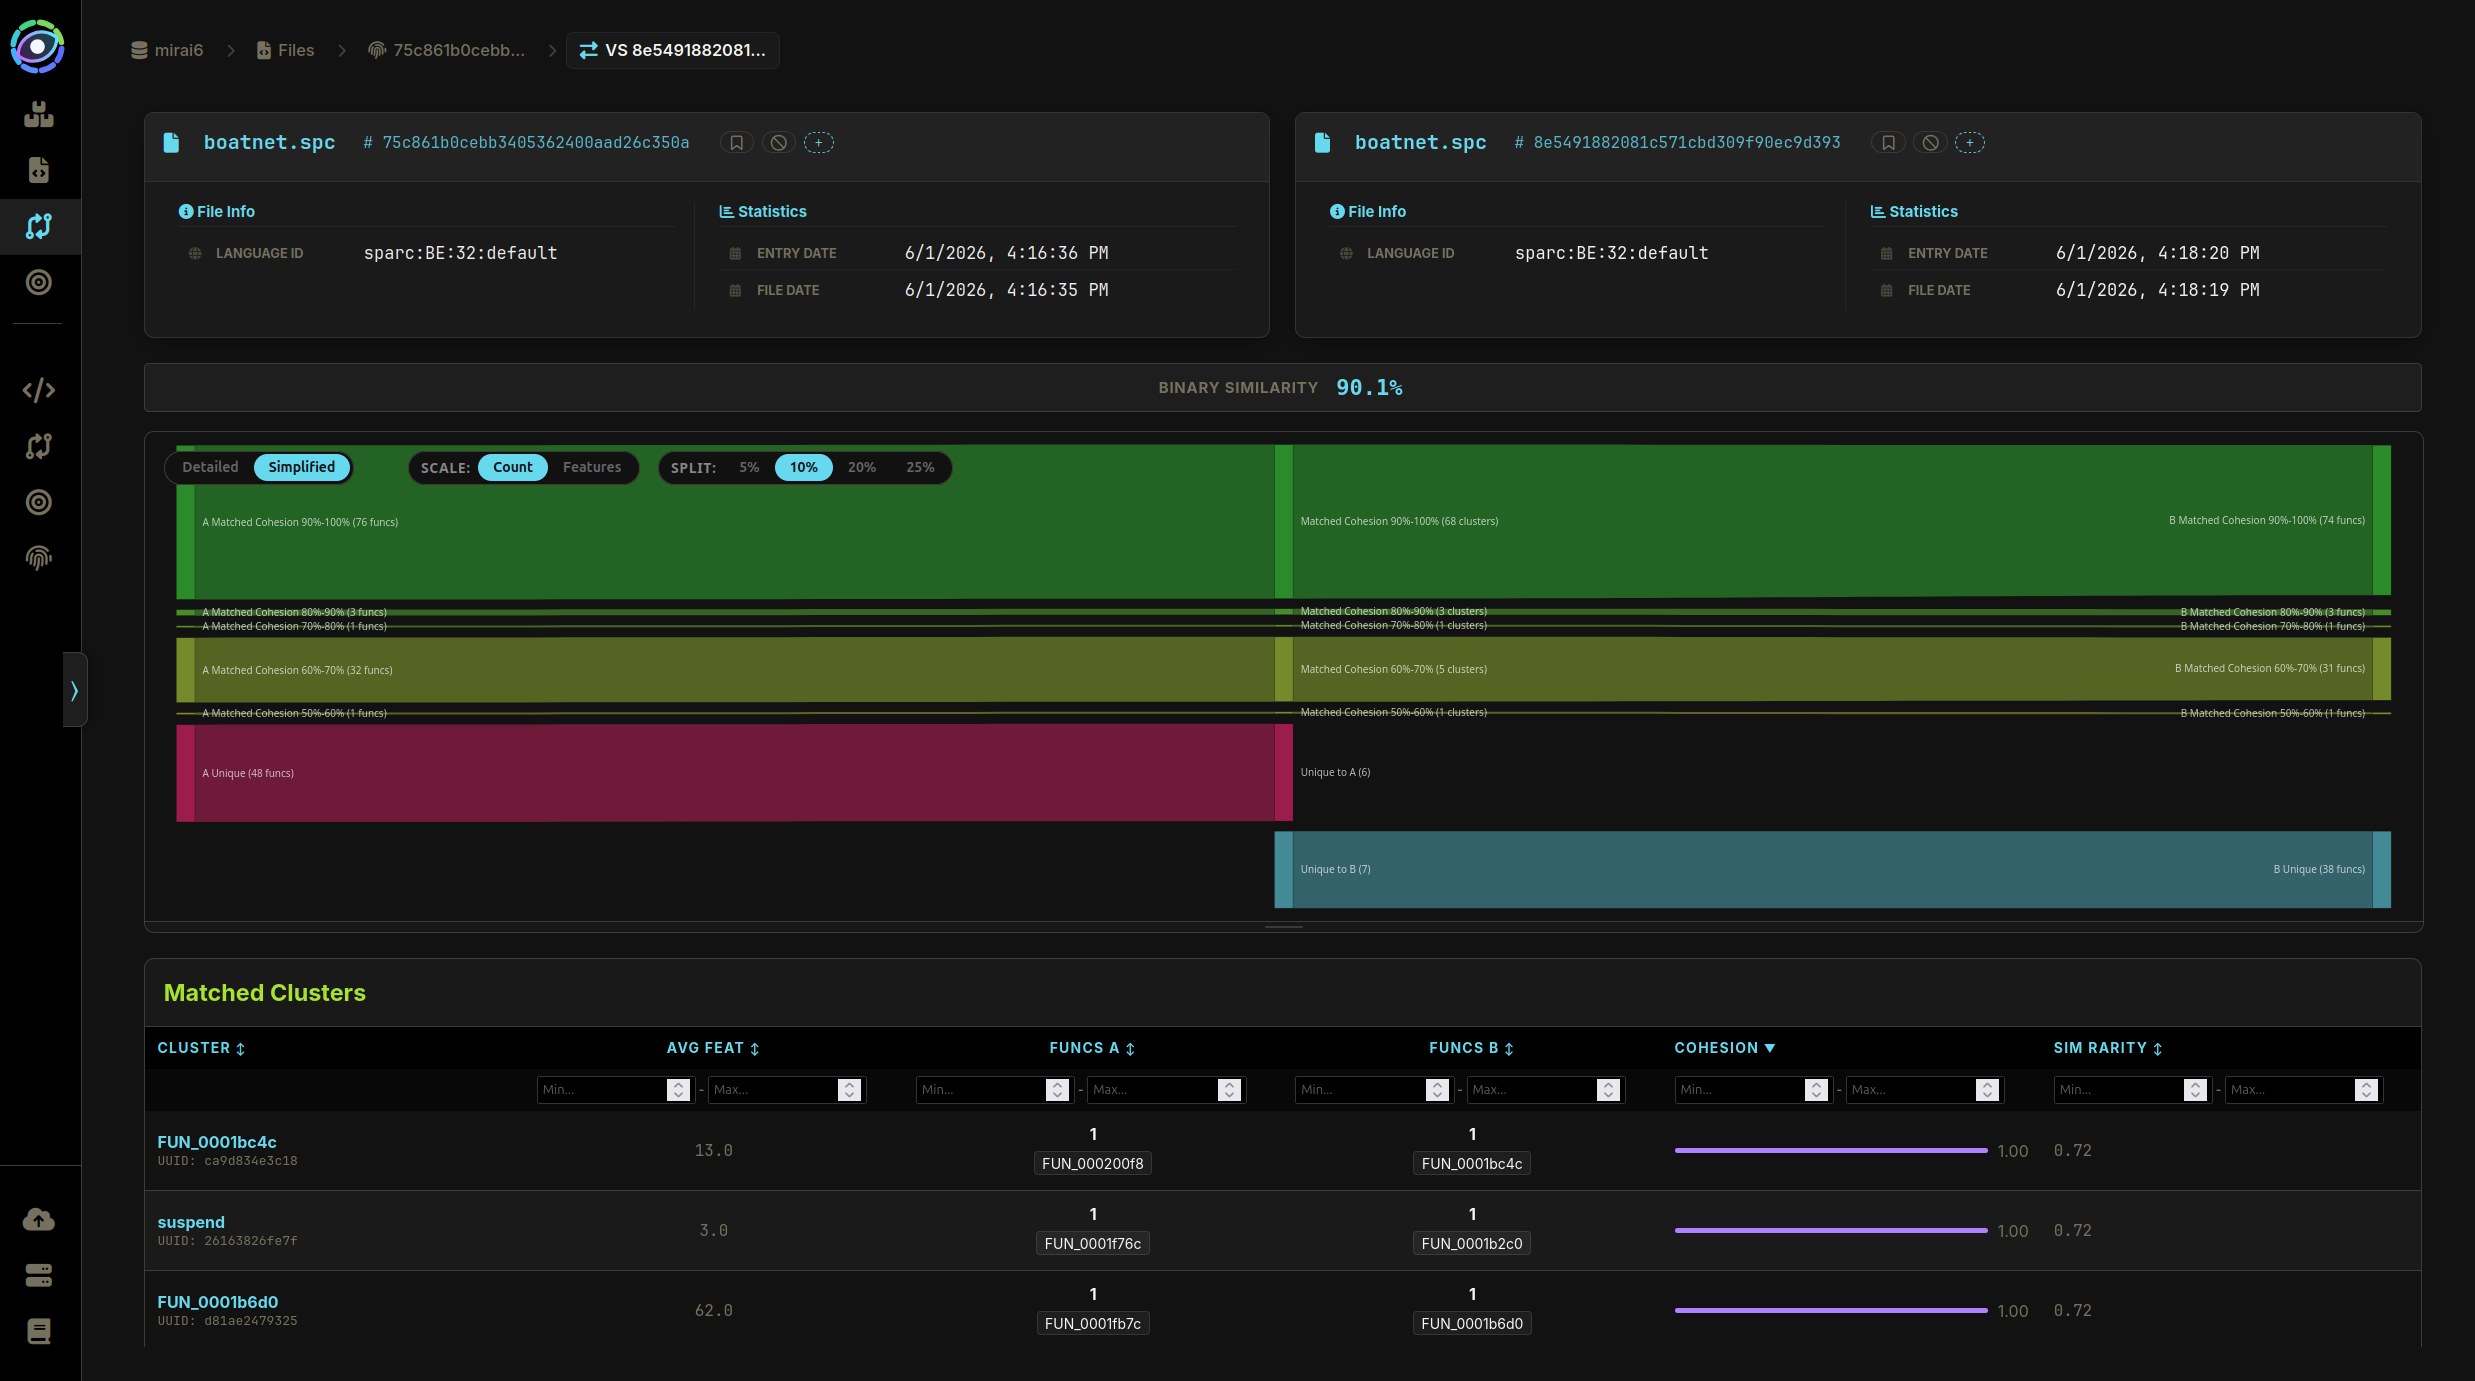
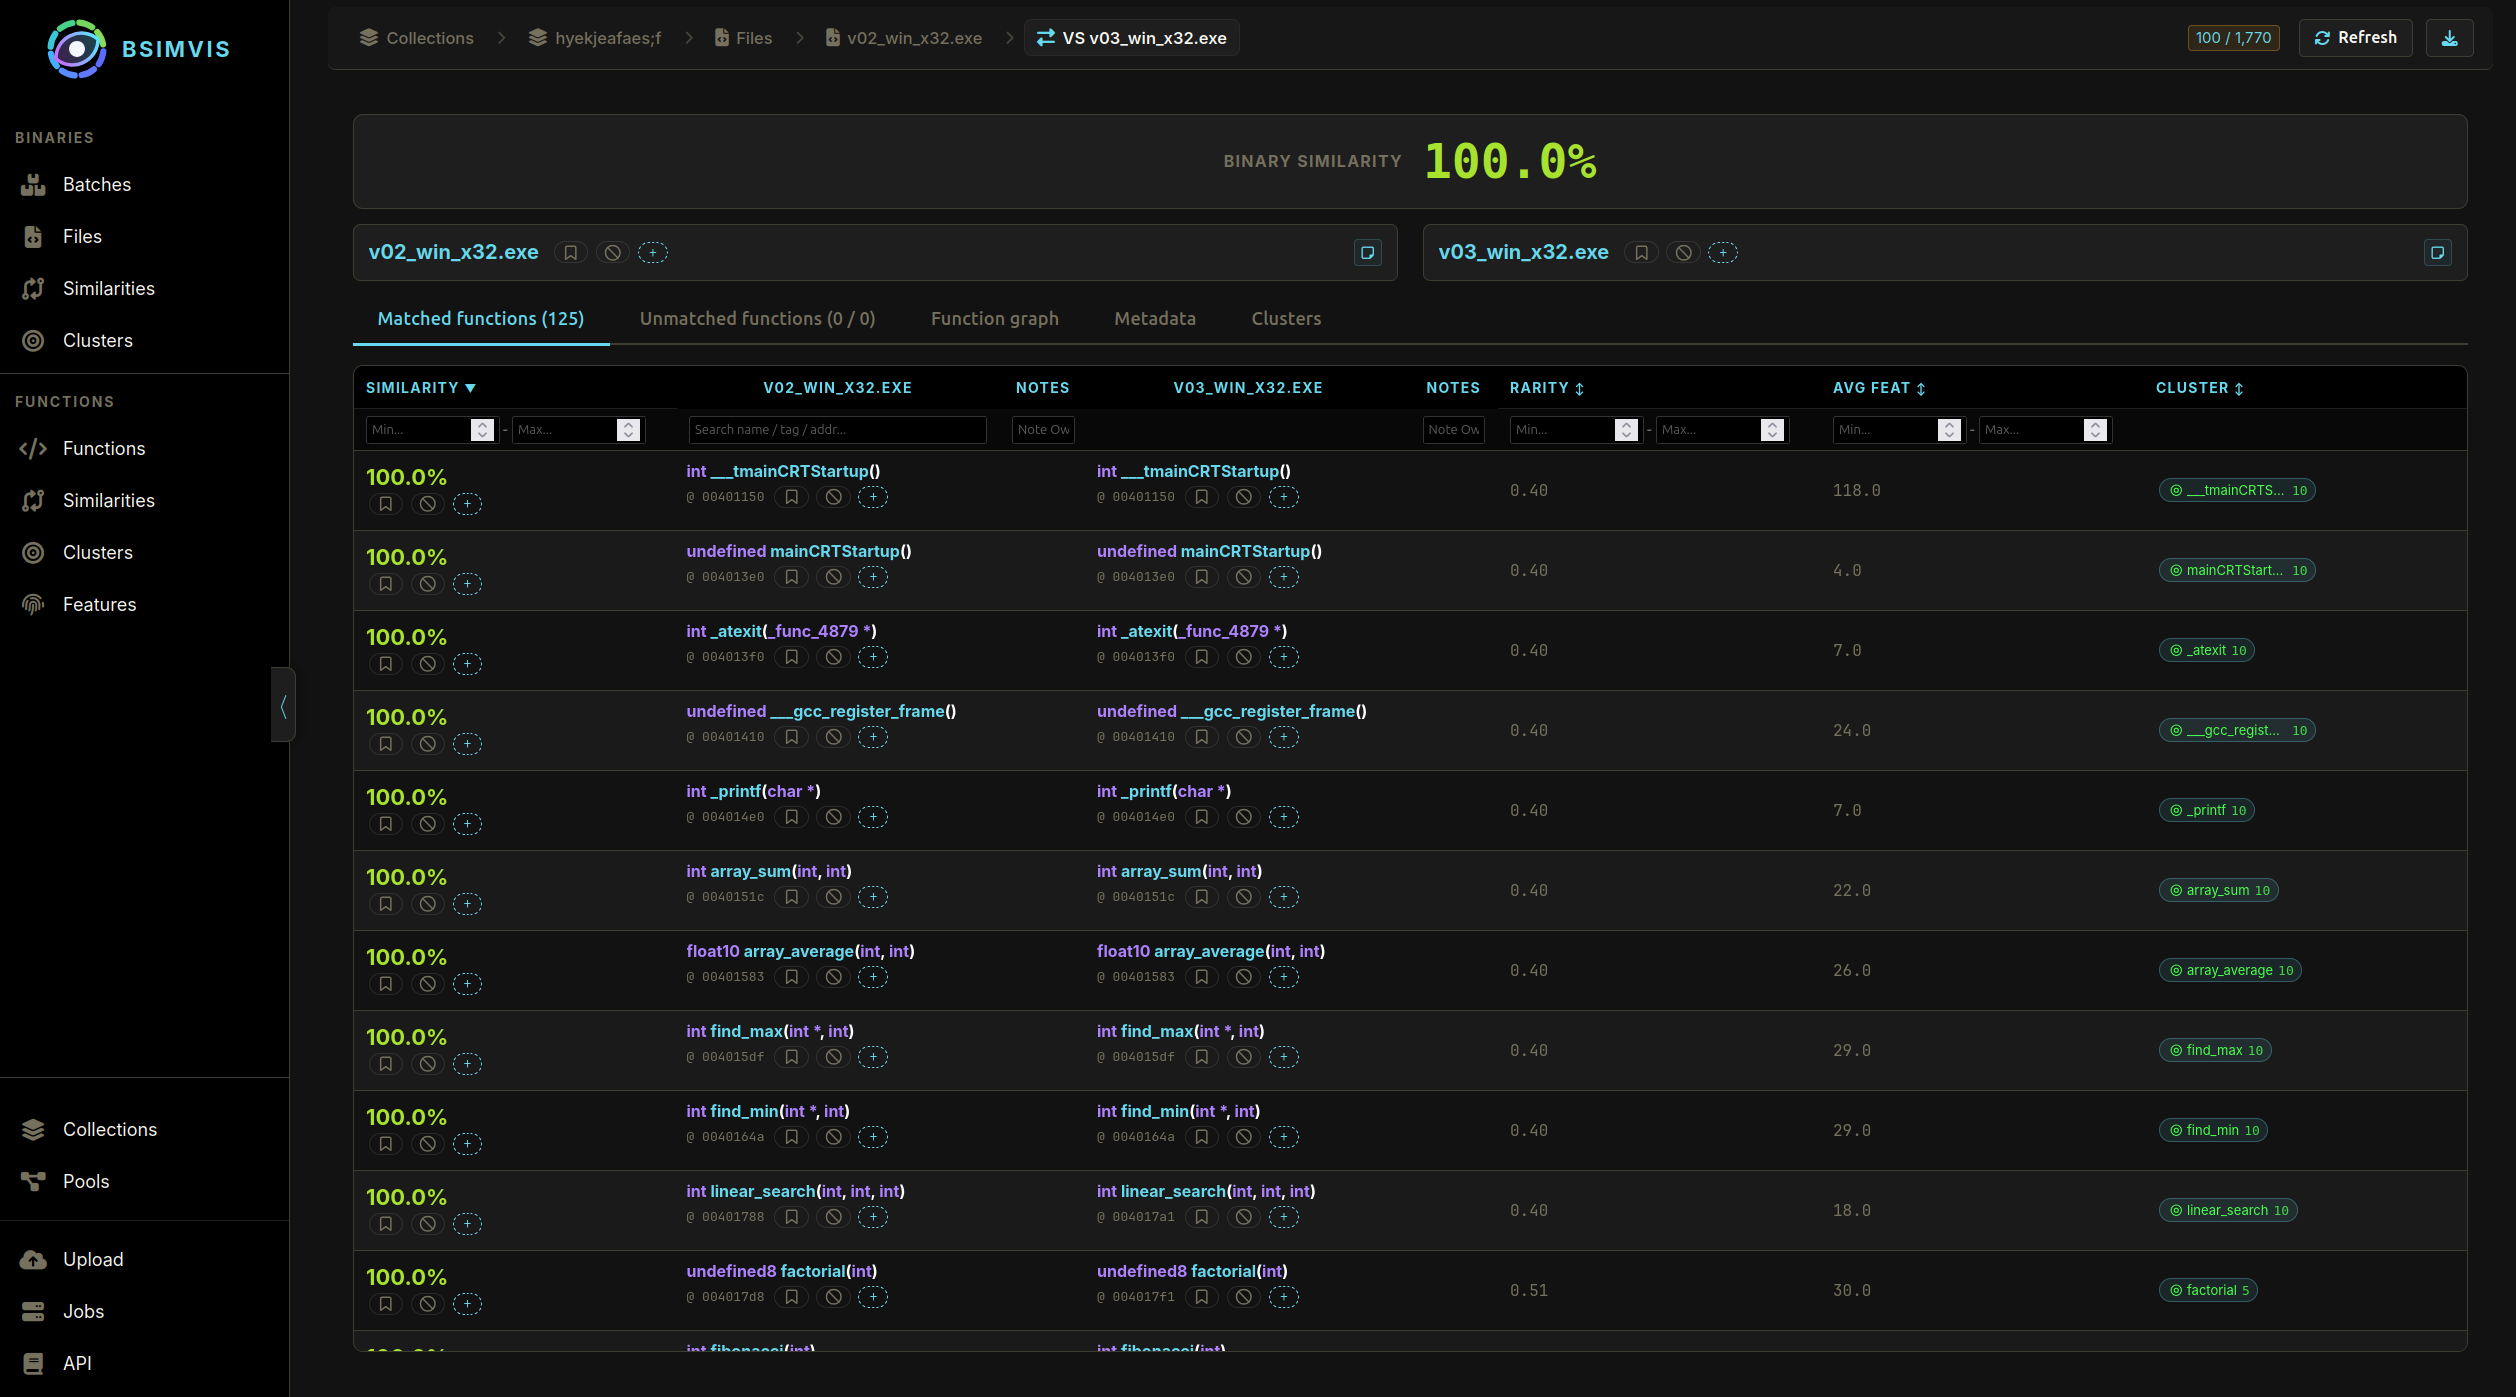
docs: update 0.4.0 release notes and graphs

diff --git a/doc/whats_new.md b/doc/whats_new.md
@@ -1,47 +1,38 @@
-# Release 0.4.0 - Pools
+BSimVis is a tool to analyze similarities across a collection of binaries, based on [Ghidra](https://github.com/nationalsecurityagency/ghidra) analyzers and the BSim (Behavioral Similarity) plugin. It provides an API and Web interface to upload large quantities of decompiled binaries and BSim feature vectors to a Kvrocks database for similarity analysis, function diffing, and binary family clustering.
+
+# New features
+
+This new version focuses on cross-collection analysis via pools, significant performance and concurrency scaling improvements for similarity builds, stability enhancements, and robust testing tools.
+
+# Screenshots
+
+![binary similarity diffing view](/img/binary_diff.png)
+*Interactive side-by-side binary diffing and function matching view.*
+
 
 ## Pools
-
-A pool correlates several collections at once, with two modes:
-
-* **Full cross-correlation** — matches what happens in collections.
-* **Cross-collection only** — set `only_cross_collection` in the pool config to
-  keep just the pairs that span two different collections. Use this to identify
-  known functions from a reference collection in another one, without paying for
-  the intra-collection comparisons you already have.
-
-Pool similarity, clustering, binary similarity and binary clustering all run as
-one job pipeline, and pool results carry their own namespace so tags, notes and
-clusters stay attached to the right level.
+* **Full cross-correlation** — matches what happens in collections, saving similarities across all collections and within them.
+* **Cross-collection only** — set `only_cross_collection` in the pool config to keep just the pairs that span two different collections. Use this to identify known functions from a reference collection in another one, without paying for the intra-collection comparisons you already have.
 
 ## Performance
 
-* Significant throughput improvements for concurrent similarity builds (`BUILD_SIM`). This was optimized by addressing two root causes: an unbounded metadata cache that starved the GC, and a per-candidate `ZSCORE` loop in Lua. Candidate discovery is now pure Python, so it no longer serializes on the kvrocks global `EVAL` lock.
-* **Concurrency scales now.** Multiple workers speed up the build rather than slowing it down, allowing builds to scale efficiently with the number of workers.
-* Diff tables filter, sort and paginate server-side instead of shipping the
-  whole table to the browser, plus a compact Sankey projection (`view=sankey`)
-  for large diffs.
-* File and function search order through the tag index; job statistics are
-  fetched in a single pipeline instead of one round trip per job.
-* Index jobs run as continuations so batches interleave rather than blocking
-  each other.
+![BUILD_SIM Optimization Performance](/img/benchmark/master_build_sim_perf.png)
+*Concurrent build throughput improvements across optimization stages (left) and build timeline comparing the baseline against the optimized run (right).*
+
+* **Faster Similarity Builds** — improved concurrent throughput by optimizing candidate discovery to avoid database serialization.
+* **Concurrency scaling** — multiple workers speed up builds rather than slowing them down, allowing builds to scale efficiently.
+* **Binary Similarity** — server-side pagination, sorting, and filtering for diff tables, along with a Sankey visualization mode.
+* **Search** — faster tag-indexed search sorting.
 
 ## Stability
-
-* Similarity scores are stable for a given set of parameters and no longer
-  drift with collection size.
-* Small functions fall back to Ghidra Function ID hash matching, where BSim
-  produces false positives.
+* Similarity scores are stable for a given set of parameters and no longer drift with collection size.
+* Small functions fall back to Ghidra Function ID hash matching, where BSim produced false positives.
 * Improvements to JVM memory management to prevent crashes.
 * Job system improvements and fixes.
 
 ## Tooling
+* `bsimvis-bench` CLI for reproducible similarity and build benchmarks, with test data under `data/bench` and results under `data/bench_results`.
+* An API test suite covering every endpoint, including cross-level filtering and sorting.
 
-* `bsimvis-bench` CLI for reproducible similarity and build benchmarks, with
-  test data under `data/bench` and results under `data/bench_results`.
-* An API test suite covering every endpoint, including cross-level filtering
-  and sorting.
-
-## Thanks
-
-New contributors this release: Alexandre Dulaunoy and SegmondFault.
+# New Contributor
+* @SegmondFault made their first contribution
